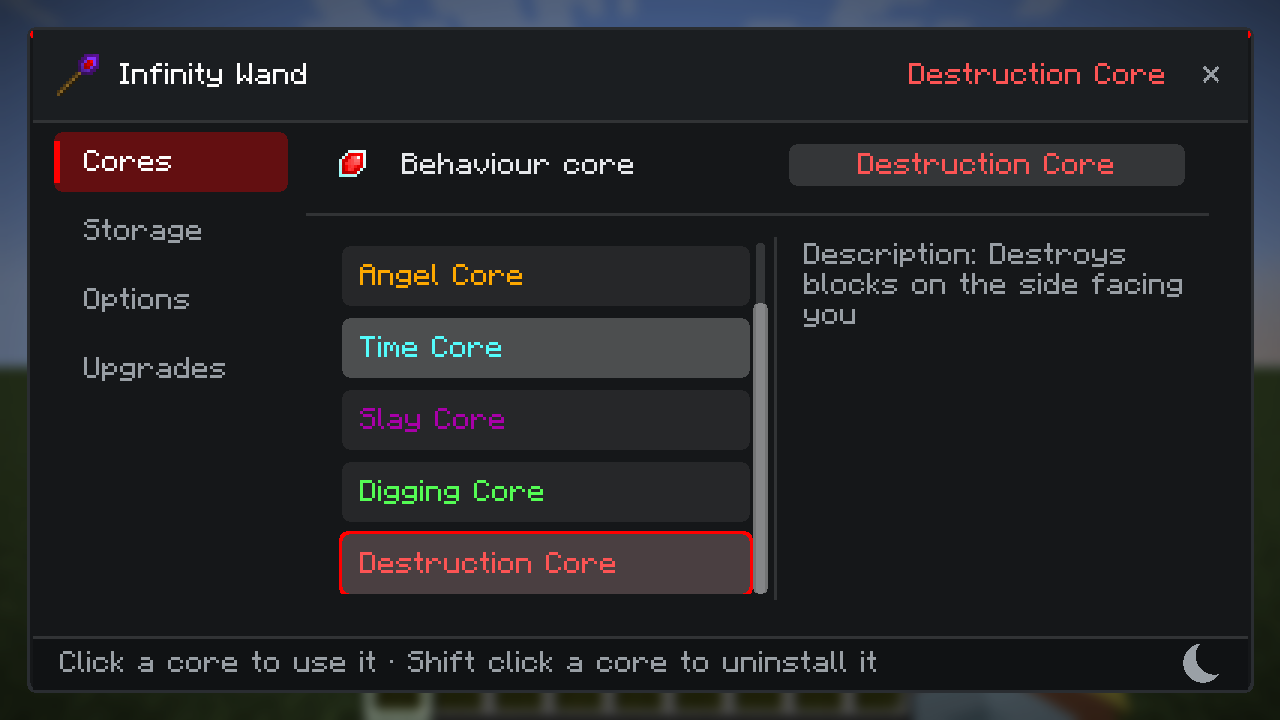
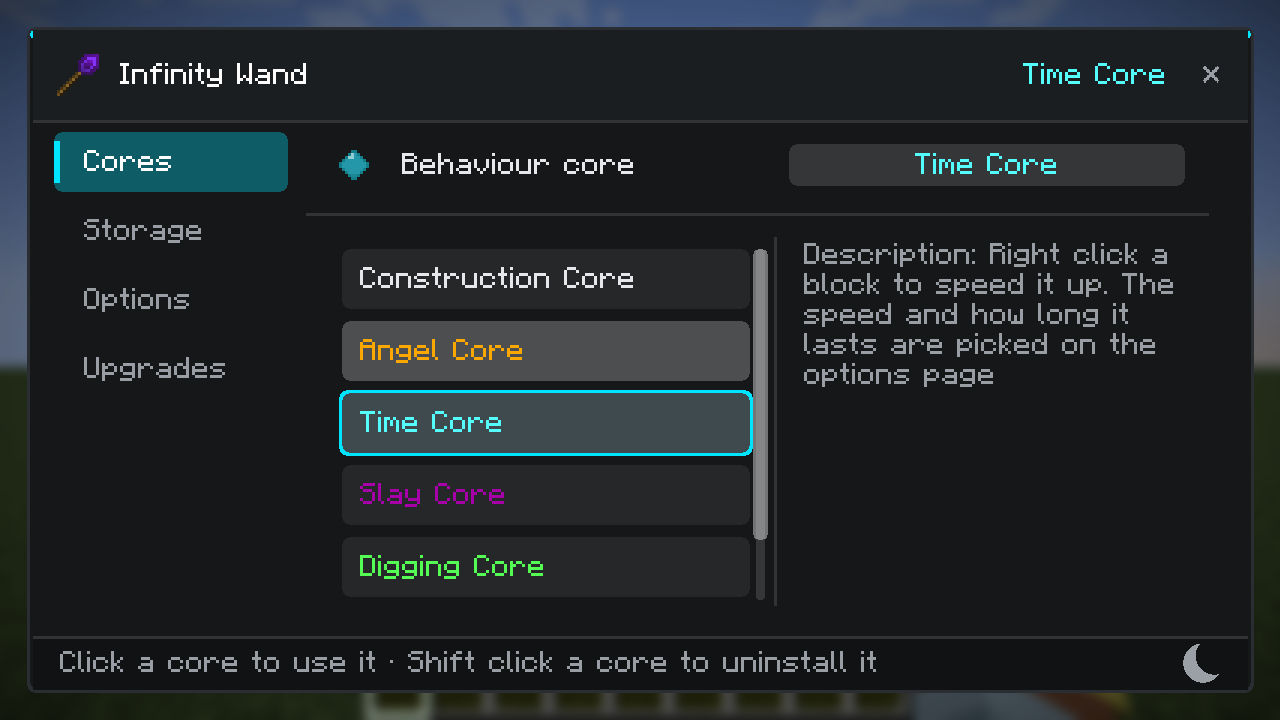
核心列表：描边颜色补 alpha、第一条描边不再被裁（v2.16.45）
- 描边颜色走 Ui.fromCoreColor()：各核心 getColor() 是无 alpha 的 RGB，之前画出来全透明，只有 -1(白) 和 0xFFFF0000(红) 可见
- 列表内容从 y+6 起、裁剪区从 y+4 起，留 2px 余量让第一条的圆角描边完整；height/点击换算同步
- 截图更新 docs/wand-screen-cores.png（时间核心青色圆角描边）

diff --git a/src/main/java/dev/polaris_light/constructionwand/client/ui/WandRow.java b/src/main/java/dev/polaris_light/constructionwand/client/ui/WandRow.java
@@ -257,7 +257,7 @@ public abstract class WandRow
         @Override
         public int height() {
             Font font = Minecraft.getInstance().font;
-            return Math.max(viewport(), descriptionLines(font).size() * TEXT_LINE) + 8;
+            return Math.max(viewport() + 2, descriptionLines(font).size() * TEXT_LINE) + 8;
         }
 
         @Override
@@ -267,7 +267,8 @@ public abstract class WandRow
 
         @Override
         protected void renderRow(GuiGraphics graphics, Font font, int labelColor) {
-            int top = y + 4;
+            // Two pixels above the list, so the ring of the first entry is not cut by the window edge.
+            int top = y + 6;
             if(!scrolledToSelection) {
                 // Open the list on the entry in use, so the picked one is not hidden below the window.
                 scrolledToSelection = true;
@@ -279,7 +280,7 @@ public abstract class WandRow
             leftScroll = Math.min(leftScroll, maxScroll());
 
             // The list has a window of its own: entries scroll inside it, the description does not move.
-            graphics.enableScissor(x + 10, top, dividerX() - 6, top + viewport());
+            graphics.enableScissor(x + 10, y + 4, dividerX() - 6, top + viewport());
             for(int index = 0; index < entries.size(); index++) {
                 Entry entry = entries.get(index);
                 int entryY = top + index * lineStep() - leftScroll;
@@ -295,8 +296,9 @@ public abstract class WandRow
                 // The ring of the picked entry is drawn first and its middle cleared again, so it follows the
                 // rounded corners; the plate goes on top of that. A hovered entry only gets a brighter plate.
                 if(entry.selected()) {
+                    // The colours of the cores are plain RGB, so the ring has to be given its alpha here.
                     Ui.outlineRounded(graphics, left - 1, entryY - 1, columnWidth() + 2, ENTRY_HEIGHT + 2,
-                            entry.color());
+                            Ui.fromCoreColor(entry.color()));
                 }
                 Ui.rounded(graphics, left, entryY, columnWidth(), ENTRY_HEIGHT,
                         entry.selected() ? 0x2EFFFFFF : hovered ? 0x3CFFFFFF : 0x12FFFFFF);
@@ -323,7 +325,7 @@ public abstract class WandRow
         public boolean mouseScrolled(double mouseX, double mouseY, double delta) {
             if(maxScroll() <= 0) return false;
             if(mouseX < x + 10 || mouseX >= dividerX() - 6) return false;
-            if(mouseY < y + 4 || mouseY > y + 4 + viewport()) return false;
+            if(mouseY < y + 6 || mouseY > y + 6 + viewport()) return false;
 
             int next = Mth.clamp(leftScroll - (int) Math.round(delta * lineStep()), 0, maxScroll());
             if(next == leftScroll) return false;
@@ -337,7 +339,7 @@ public abstract class WandRow
             // Only the left column is a list, the right one is the description.
             if(mouseX >= dividerX()) return false;
 
-            int offsetY = (int) (mouseY - (y + 4)) + leftScroll;
+            int offsetY = (int) (mouseY - (y + 6)) + leftScroll;
             if(offsetY < 0) return false;
 
             int index = offsetY / lineStep();
@@ -345,7 +347,7 @@ public abstract class WandRow
             // A click in the gap between two entries belongs to neither of them.
             if(offsetY % lineStep() > ENTRY_HEIGHT) return false;
             // A click below the window is outside the list that is drawn.
-            if(mouseY > y + 4 + viewport()) return false;
+            if(mouseY > y + 6 + viewport()) return false;
 
             onSelect.accept(index);
             return true;

diff --git a/README-PLUS.md b/README-PLUS.md
@@ -28,6 +28,15 @@
 - `WandData.writeRoot/removeRoot/update`：同样只对手杖生效，任何漏网调用都写不进去。
 
 实测：手持 60 石头右键方块后 `components={…}` 里**没有** `custom_data`；手杖自己仍正常带 `wand_options`。
+## 核心列表：描边颜色补 alpha、第一条不再被裁（2.16.45）
+
+- **为什么只有毁灭核心和建筑核心有描边**：各核心的 `getColor()` 返回的是**不含 alpha 的 RGB**（如 `ItemCoreTime.CORE_COLOR = 0x00E5FF`、
+  挖掘 `0x2ECC40`），alpha 位是 0，画出来完全透明；只有 `CoreDefault`（`-1`，纯白）和 `CoreDestruction`（`0xFFFF0000`）自带 alpha 才可见。
+  现在统一走 `Ui.fromCoreColor(...)`（补 `0xFF000000`，`0/-1` 时用主题强调色），所以每个核心都能看到自己的颜色；
+- **第一条描边被裁**：列表窗口的裁剪区原本从 `y+4` 开始，而描边画在 `entryY-1`，第一条正好压到裁剪边缘。现在列表内容从 `y+6` 开始、
+  裁剪区从 `y+4` 开始，留下 2px 余量，第一条的描边完整可见；`height()`/点击换算同步 +2。
+- 截图 `docs/wand-screen-cores.png`：选中的时间核心是**青色圆角描边**（不再是白色），悬浮的天使核心只有更亮的底板。
+
 ## 核心列表：描边贴合圆角、悬浮不再加描边（2.16.44）
 
 - `Ui.outline` 换成 `Ui.outlineRounded`：先按圆角画一圈核心色，再把内部用窗口底色（`Ui.BACKGROUND`）挖掉 1px，
